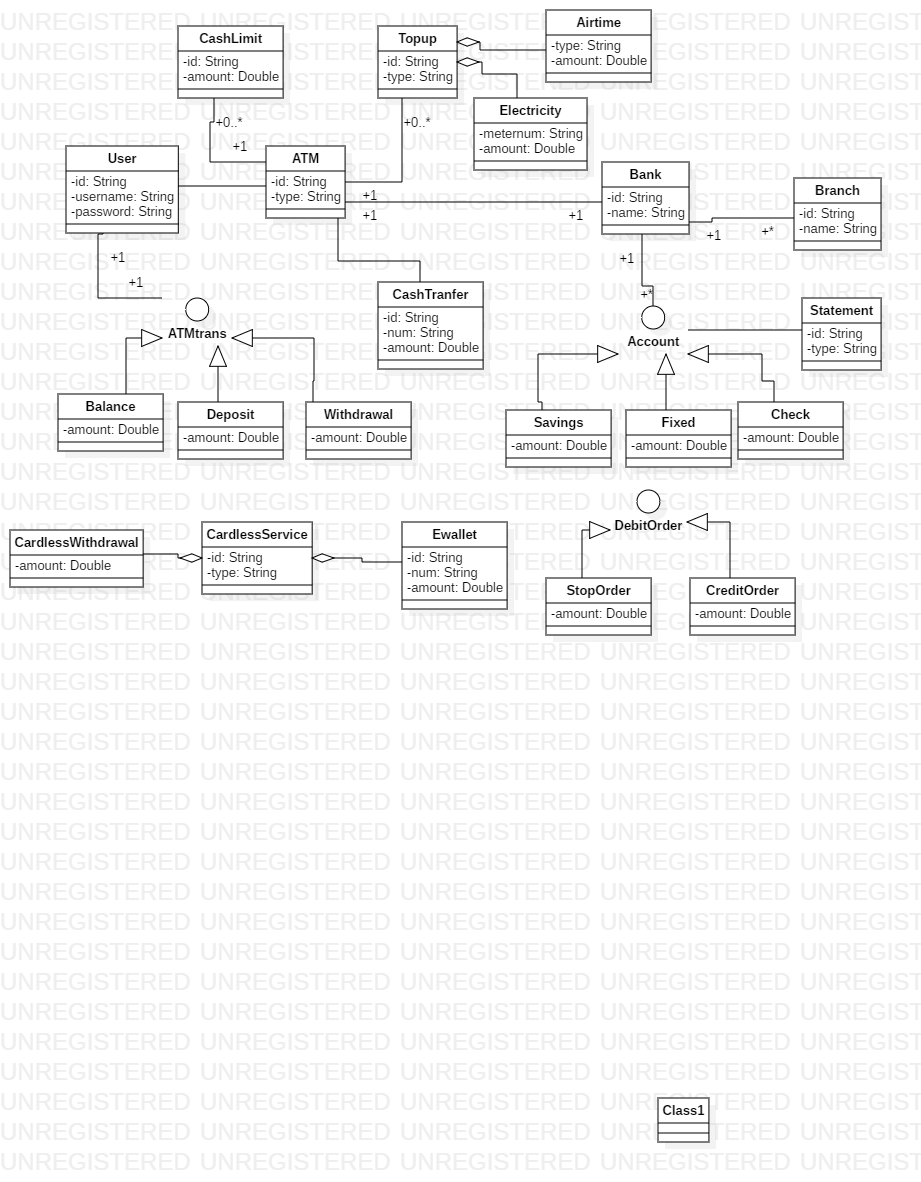
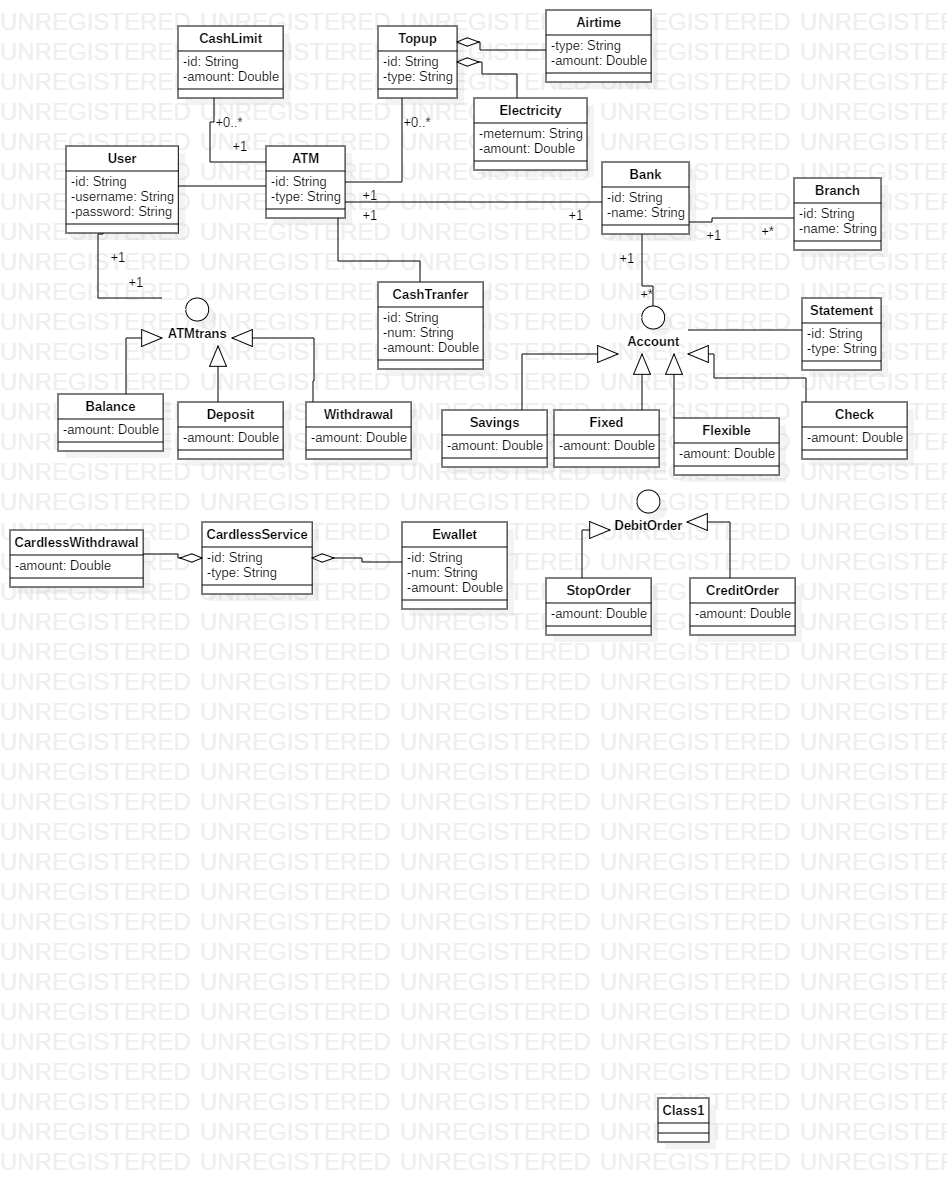
class add

diff --git a/src/main/java/ATMtrans/account/Flexible.java b/src/main/java/ATMtrans/account/Flexible.java
@@ -1,4 +1,39 @@
 package ATMtrans.account;
 
 public class Flexible {
+
+    private double amount = 0;
+
+    private Flexible() {
+    }
+
+    private Flexible(Builder builder) {
+        this.amount = builder.amount;
+    }
+
+    public double getAmount() {
+        return amount;
+    }
+
+    public static class Builder {
+
+        private double amount;
+
+
+        public Builder amount(double amount) {
+            this.amount = amount;
+            return this;
+        }
+
+        public Flexible build() {
+            return new Flexible(this);
+        }
+
+        @Override
+        public String toString() {
+            return "Builder{" +
+                    "amount=R" + amount +
+                    '}';
+        }
+    }
 }

diff --git a/src/test/java/ATMtrans/factoryAccount/FlexibleFactoryTest.java b/src/test/java/ATMtrans/factoryAccount/FlexibleFactoryTest.java
@@ -1,5 +1,18 @@
+package ATMtrans.factoryAccount;
+
+import ATMtrans.account.Flexible;
+import org.junit.Assert;
+import org.junit.Test;
+
 import static org.junit.Assert.*;
 
 public class FlexibleFactoryTest {
 
+    @Test
+    public void getAmount() {
+        Flexible s = FlexibleFactory.getAmount(800.00);
+        System.out.println(s);
+        Assert.assertNotNull(s.getAmount());
+
+    }
 }

diff --git a/src/main/java/ATMtrans/factoryAccount/FlexibleFactory.java b/src/main/java/ATMtrans/factoryAccount/FlexibleFactory.java
@@ -1,4 +1,13 @@
 package ATMtrans.factoryAccount;
 
+import ATMtrans.account.Flexible;
+
 public class FlexibleFactory {
+
+    public static Flexible getAmount(double amount) {
+        return new Flexible.Builder()
+                .amount(amount)
+                //.amount(Misc.generateId())
+                .build();
+    }
 }
